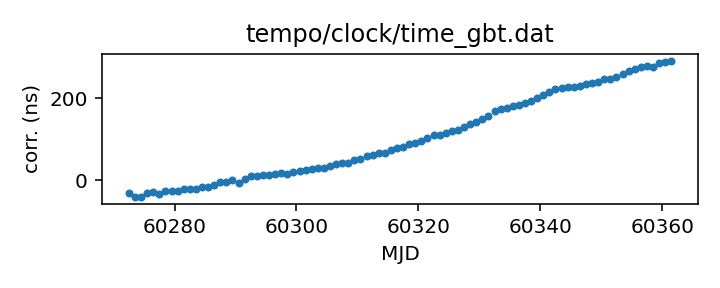
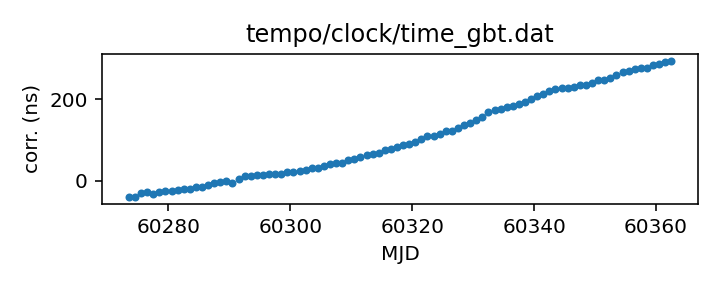
Routine gh-pages update from Github action Fri Feb 23 20:29:57 UTC 2024

diff --git a/status.md b/status.md
@@ -13,17 +13,17 @@ name of each clock file links to a page with more details.
 
 | Name | File | Corrections start | Corrections end | Last check date | Last check result 
 |:--- |:--- | --- | --- | --- |:--- 
-| [GPS to UTC](T2runtime/clock/gps2utc.clk.html) | `T2runtime/clock/gps2utc.clk` | 1993-01-01 MJD 48988.0 | 2024-01-30 MJD 60339.0 | 2024-02-22 | Unchanged 
-| [GPS to UTC (Combined Clock)](T2runtime/clock/gps2utc_cc.clk.html) | `T2runtime/clock/gps2utc_cc.clk` | 1993-01-01 MJD 48988.0 | 2024-01-30 MJD 60339.0 | 2024-02-22 | Unchanged 
-| [GPS to UTC (Corrected)](T2runtime/clock/gps2utc_c0p.clk.html) | `T2runtime/clock/gps2utc_c0p.clk` | 2010-12-29 MJD 55559.0 | 2024-01-30 MJD 60339.0 | 2024-02-22 | Unchanged 
-| [GBT](tempo/clock/time_gbt.dat.html) | `tempo/clock/time_gbt.dat` | 2000-12-31 MJD 51909.5 | 2024-02-21 MJD 60361.5 | 2024-02-22 | Updated 
-| [GBT (TEMPO2 converted from TEMPO)](T2runtime/clock/gbt2gps.clk.html) | `T2runtime/clock/gbt2gps.clk` | 2000-12-31 MJD 51909.5 | 2023-03-20 MJD 60023.5 | 2024-02-22 | **Validation failed** 
+| [GPS to UTC](T2runtime/clock/gps2utc.clk.html) | `T2runtime/clock/gps2utc.clk` | 1993-01-01 MJD 48988.0 | 2024-01-30 MJD 60339.0 | 2024-02-23 | Unchanged 
+| [GPS to UTC (Combined Clock)](T2runtime/clock/gps2utc_cc.clk.html) | `T2runtime/clock/gps2utc_cc.clk` | 1993-01-01 MJD 48988.0 | 2024-01-30 MJD 60339.0 | 2024-02-23 | Unchanged 
+| [GPS to UTC (Corrected)](T2runtime/clock/gps2utc_c0p.clk.html) | `T2runtime/clock/gps2utc_c0p.clk` | 2010-12-29 MJD 55559.0 | 2024-01-30 MJD 60339.0 | 2024-02-23 | Unchanged 
+| [GBT](tempo/clock/time_gbt.dat.html) | `tempo/clock/time_gbt.dat` | 2000-12-31 MJD 51909.5 | 2024-02-22 MJD 60362.5 | 2024-02-23 | Updated 
+| [GBT (TEMPO2 converted from TEMPO)](T2runtime/clock/gbt2gps.clk.html) | `T2runtime/clock/gbt2gps.clk` | 2000-12-31 MJD 51909.5 | 2023-03-20 MJD 60023.5 | 2024-02-23 | **Validation failed** 
 | [Jodrell Bank](T2runtime/clock/jb2gps.clk.html) | `T2runtime/clock/jb2gps.clk` | 2006-10-13 MJD 54021.4 | 2023-12-04 MJD 60282.0 | 2024-02-22 | Unchanged 
 | [Jodrell Bank Roach](T2runtime/clock/jbroach2jb.clk.html) | `T2runtime/clock/jbroach2jb.clk` | 2006-10-13 MJD 54021.4 | 2018-03-20 MJD 58197.6 | 2024-02-22 | Unchanged 
 | [Jodrell Bank DFB](T2runtime/clock/jbdfb2jb.clk.html) | `T2runtime/clock/jbdfb2jb.clk` | 2006-10-13 MJD 54021.4 | 2017-05-11 MJD 57884.0 | 2024-02-22 | Unchanged 
 | [Meerkat (observatory)](T2runtime/clock/mk2utc_observatory.clk.html) | `T2runtime/clock/mk2utc_observatory.clk` | 2019-01-01 MJD 58484.0 | 2024-01-31 MJD 60341.0 | 2024-02-22 | Unchanged 
-| [Leap seconds](tempo/clock/leap.sec.html) | `tempo/clock/leap.sec` | 1972-07-01 MJD 41499.0 | 2017-01-01 MJD 57754.0 | 2024-02-22 | Unchanged 
-| [UT1 table](tempo/clock/ut1.dat.html) | `tempo/clock/ut1.dat` | 1973-01-02 MJD 41684.0 | 2025-03-01 MJD 60735.0 | 2024-02-22 | Updated 
+| [Leap seconds](tempo/clock/leap.sec.html) | `tempo/clock/leap.sec` | 1972-07-01 MJD 41499.0 | 2017-01-01 MJD 57754.0 | 2024-02-23 | Unchanged 
+| [UT1 table](tempo/clock/ut1.dat.html) | `tempo/clock/ut1.dat` | 1973-01-02 MJD 41684.0 | 2025-03-01 MJD 60735.0 | 2024-02-23 | Unchanged 
 
 
 

diff --git a/T2runtime/clock/gbt2gps.clk.md b/T2runtime/clock/gbt2gps.clk.md
@@ -25,12 +25,11 @@ If questions arise about the conversion, contact Anne Archibald
 | Clock file start | 2000-12-31 MJD 51909.5 |
 | Clock file end | 2023-03-20 MJD 60023.5 |
 | Update interval (days) | 1 |
-| Last update attempt | 2024-02-22 |
+| Last update attempt | 2024-02-23 |
 | Last update result | Validation failed |
 
 Log entries from the last few update attempts:
 ```
-2023-03-20 20:27:17.557 - Updated
 2023-03-21 20:26:24.499 - Updated
 2024-02-15 20:29:47.823 - Validation failed: New version of T2runtime/clock/gbt2gps.clk clock corrections differ from old version where they overlap in 11 places
 2024-02-16 20:29:21.900 - Validation failed: New version of T2runtime/clock/gbt2gps.clk clock corrections differ from old version where they overlap in 11 places
@@ -40,6 +39,7 @@ Log entries from the last few update attempts:
 2024-02-20 20:29:22.882 - Validation failed: New version of T2runtime/clock/gbt2gps.clk clock corrections differ from old version where they overlap in 11 places
 2024-02-21 20:29:46.209 - Validation failed: New version of T2runtime/clock/gbt2gps.clk clock corrections differ from old version where they overlap in 11 places
 2024-02-22 20:29:48.315 - Validation failed: New version of T2runtime/clock/gbt2gps.clk clock corrections differ from old version where they overlap in 11 places
+2024-02-23 20:29:26.239 - Validation failed: New version of T2runtime/clock/gbt2gps.clk clock corrections differ from old version where they overlap in 11 places
 ```
 [Full log](https://raw.githubusercontent.com/ipta/pulsar-clock-corrections/main/log/T2runtime/clock/gbt2gps.clk.log)
 

diff --git a/tempo/clock/time_gbt.dat.md b/tempo/clock/time_gbt.dat.md
@@ -31,14 +31,13 @@ If questions arise, contact Ryan S. Lynch <rlynch@nrao.edu>.
 | Format | tempo |
 | Bogus last correction | False |
 | Clock file start | 2000-12-31 MJD 51909.5 |
-| Clock file end | 2024-02-21 MJD 60361.5 |
+| Clock file end | 2024-02-22 MJD 60362.5 |
 | Update interval (days) | 1 |
-| Last update attempt | 2024-02-22 |
+| Last update attempt | 2024-02-23 |
 | Last update result | Updated |
 
 Log entries from the last few update attempts:
 ```
-2024-02-13 20:30:16.364 - Validation failed: New version of tempo/clock/time_gbt.dat clock corrections differ from old version where they overlap in 11 places
 2024-02-14 18:47:24.340 - Unchanged
 2024-02-15 20:29:47.296 - Updated
 2024-02-16 20:29:21.847 - Updated
@@ -48,6 +47,7 @@ Log entries from the last few update attempts:
 2024-02-20 20:29:22.843 - Validation failed: New version of tempo/clock/time_gbt.dat clock corrections differ from old version where they overlap in 11 places
 2024-02-21 20:29:46.153 - Updated
 2024-02-22 20:29:47.934 - Updated
+2024-02-23 20:29:26.181 - Updated
 ```
 [Full log](https://raw.githubusercontent.com/ipta/pulsar-clock-corrections/main/log/tempo/clock/time_gbt.dat.log)
 

diff --git a/T2runtime/clock/gps2utc_c0p.clk.md b/T2runtime/clock/gps2utc_c0p.clk.md
@@ -30,12 +30,11 @@ about the BIPM's published corrections, contact <tai@bipm.org>.
 | Clock file start | 2010-12-29 MJD 55559.0 |
 | Clock file end | 2024-01-30 MJD 60339.0 |
 | Update interval (days) | 1 |
-| Last update attempt | 2024-02-22 |
+| Last update attempt | 2024-02-23 |
 | Last update result | Unchanged |
 
 Log entries from the last few update attempts:
 ```
-2024-02-13 20:30:16.052 - Unchanged
 2024-02-14 20:29:28.468 - Unchanged
 2024-02-15 20:29:46.458 - Unchanged
 2024-02-16 20:29:21.342 - Unchanged
@@ -45,6 +44,7 @@ Log entries from the last few update attempts:
 2024-02-20 20:29:22.517 - Unchanged
 2024-02-21 20:29:45.299 - Unchanged
 2024-02-22 20:29:47.541 - Unchanged
+2024-02-23 20:29:25.102 - Unchanged
 ```
 [Full log](https://raw.githubusercontent.com/ipta/pulsar-clock-corrections/main/log/T2runtime/clock/gps2utc_c0p.clk.log)
 

diff --git a/T2runtime/clock/gps2utc_cc.clk.md b/T2runtime/clock/gps2utc_cc.clk.md
@@ -29,12 +29,11 @@ about the BIPM's published corrections, contact <tai@bipm.org>.
 | Clock file start | 1993-01-01 MJD 48988.0 |
 | Clock file end | 2024-01-30 MJD 60339.0 |
 | Update interval (days) | 1 |
-| Last update attempt | 2024-02-22 |
+| Last update attempt | 2024-02-23 |
 | Last update result | Unchanged |
 
 Log entries from the last few update attempts:
 ```
-2024-02-13 20:30:16.043 - Unchanged
 2024-02-14 20:29:28.459 - Unchanged
 2024-02-15 20:29:46.448 - Unchanged
 2024-02-16 20:29:21.332 - Unchanged
@@ -44,6 +43,7 @@ Log entries from the last few update attempts:
 2024-02-20 20:29:22.508 - Unchanged
 2024-02-21 20:29:45.289 - Unchanged
 2024-02-22 20:29:47.532 - Unchanged
+2024-02-23 20:29:25.092 - Unchanged
 ```
 [Full log](https://raw.githubusercontent.com/ipta/pulsar-clock-corrections/main/log/T2runtime/clock/gps2utc_cc.clk.log)
 

diff --git a/T2runtime/clock/gps2utc.clk.md b/T2runtime/clock/gps2utc.clk.md
@@ -32,12 +32,11 @@ about the BIPM's published corrections, contact <tai@bipm.org>.
 | Clock file start | 1993-01-01 MJD 48988.0 |
 | Clock file end | 2024-01-30 MJD 60339.0 |
 | Update interval (days) | 1 |
-| Last update attempt | 2024-02-22 |
+| Last update attempt | 2024-02-23 |
 | Last update result | Unchanged |
 
 Log entries from the last few update attempts:
 ```
-2024-02-13 20:30:16.017 - Unchanged
 2024-02-14 20:29:28.433 - Unchanged
 2024-02-15 20:29:46.420 - Unchanged
 2024-02-16 20:29:21.306 - Unchanged
@@ -47,6 +46,7 @@ Log entries from the last few update attempts:
 2024-02-20 20:29:22.483 - Unchanged
 2024-02-21 20:29:45.262 - Unchanged
 2024-02-22 20:29:47.506 - Unchanged
+2024-02-23 20:29:25.062 - Unchanged
 ```
 [Full log](https://raw.githubusercontent.com/ipta/pulsar-clock-corrections/main/log/T2runtime/clock/gps2utc.clk.log)
 

diff --git a/tempo/clock/ut1.dat.md b/tempo/clock/ut1.dat.md
@@ -30,12 +30,11 @@ If there are any questions, contact Anne Archibald
 | File start | 1973-01-02 MJD 41684.0 |
 | File end | 2025-03-01 MJD 60735.0 |
 | Update interval (days) | 0 |
-| Last update attempt | 2024-02-22 |
-| Last update result | Updated |
+| Last update attempt | 2024-02-23 |
+| Last update result | Unchanged |
 
 Log entries from the last few update attempts:
 ```
-2024-02-14 18:46:04.175 - Unchanged
 2024-02-14 20:29:37.253 - Unchanged
 2024-02-15 20:30:16.805 - Updated
 2024-02-16 20:29:29.298 - Unchanged
@@ -45,5 +44,6 @@ Log entries from the last few update attempts:
 2024-02-20 20:29:31.140 - Unchanged
 2024-02-21 20:29:58.997 - Unchanged
 2024-02-22 20:30:15.762 - Updated
+2024-02-23 20:29:34.165 - Unchanged
 ```
 [Full log](https://raw.githubusercontent.com/ipta/pulsar-clock-corrections/main/log/tempo/clock/ut1.dat.log)

diff --git a/tempo/clock/leap.sec.md b/tempo/clock/leap.sec.md
@@ -21,12 +21,11 @@ If there are any questions, contact Anne Archibald
 | File start | 1972-07-01 MJD 41499.0 |
 | File end | 2017-01-01 MJD 57754.0 |
 | Update interval (days) | 0 |
-| Last update attempt | 2024-02-22 |
+| Last update attempt | 2024-02-23 |
 | Last update result | Unchanged |
 
 Log entries from the last few update attempts:
 ```
-2024-02-14 18:46:03.847 - Unchanged
 2024-02-14 20:29:28.882 - Unchanged
 2024-02-15 20:30:02.007 - Unchanged
 2024-02-16 20:29:21.930 - Unchanged
@@ -36,5 +35,6 @@ Log entries from the last few update attempts:
 2024-02-20 20:29:22.913 - Unchanged
 2024-02-21 20:29:47.449 - Unchanged
 2024-02-22 20:30:02.041 - Unchanged
+2024-02-23 20:29:26.271 - Unchanged
 ```
 [Full log](https://raw.githubusercontent.com/ipta/pulsar-clock-corrections/main/log/tempo/clock/leap.sec.log)
